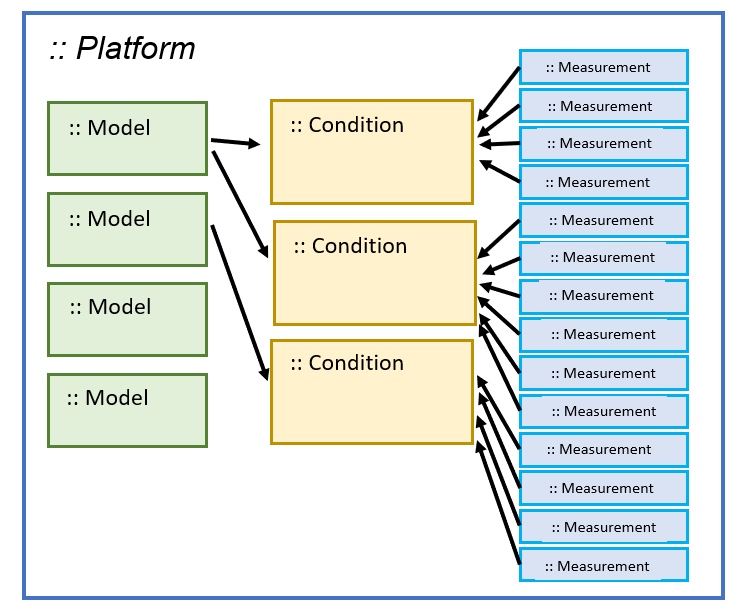
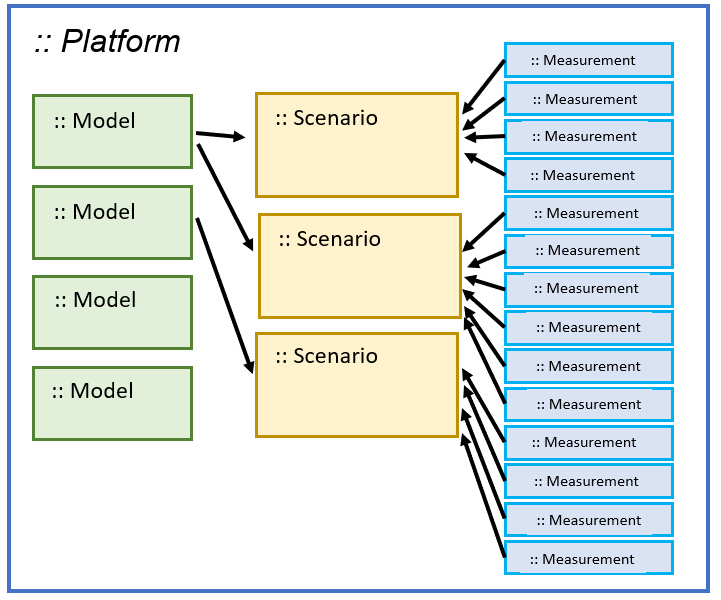
update @show

Changed region(s): [[0.0, 0.0, 1.0, 0.99]]

diff --git a/docs/src/basics/design.md b/docs/src/basics/design.md
@@ -7,18 +7,18 @@ The endpoint users are not experienced Julia users but rather researchers having
 We avoided complex user interfaces and limit the number of different methods for the base modeling workflow.
 
 The approach implies the "modeling platform" term that means everything helpful for modeling: models structure, variables, parameters, scenarios and experimental dataset. From the practical point of view "modeling platform" is the same as project files.
-The representation of modeling platform in the HetaSimulator package is object of the [`Platform`]{@ref} type.
+The representation of modeling platform in the HetaSimulator package is object of the [`Platform`](@ref) type.
 This object stores `Model`s, `Scenario`s and `Measurement`s.
 
-[`Model`]{@ref} type represents one concrete namespace imported from [Heta-compiler](https://hetalang.github.io/#/heta-compiler/). It stores information about ODE system, initialization of initial values, events as well as default values of constants. The HetaSimulator approach imply multi-model usage so simulations and optimizations can be done for several models simultaneously without specific preparations.
+[`Model`](@ref) type represents one concrete namespace imported from [Heta-compiler](https://hetalang.github.io/#/heta-compiler/). It stores information about ODE system, initialization of initial values, events as well as default values of constants. The HetaSimulator approach imply multi-model usage so simulations and optimizations can be done for several models simultaneously without specific preparations.
 
-[`Scenario`]{@ref} type stores additional setting for running ODE solution and tasks. For example the same model can be run with or without some events, or differ by some specific constant values like doses and others, or has some specific output variables (observables). Each `Scenario` is associated with a specific `Model`. Each model may be referenced by any number of scenarios.
+[`Scenario`](@ref) type stores additional setting for running ODE solution and tasks. For example the same model can be run with or without some events, or differ by some specific constant values like doses and others, or has some specific output variables (observables). Each `Scenario` is associated with a specific `Model`. Each model may be referenced by any number of scenarios.
 
 Additionally `Scenario` instance is a container for the `Measurement` objects which describe experimental datasets. They can be used for identification of model parameters or some specific tasks like identifiability analysis and visualization. 
 
 ![platform-scheme](platform-scheme.png)
 
-There is no need to create more than one `Platform` object because it can store any number of `Model`s and `Scenario`s. The advisable workflow is (1) to create one `Platform` using [`load_platform`]{@ref} method, (2) update it by `Scenario`s and `Measurement`s using formatted CSV tables and (3) apply different methods depending on your goals.
+There is no need to create more than one `Platform` object because it can store any number of `Model`s and `Scenario`s. The advisable workflow is (1) to create one `Platform` using [`load_platform`](@ref) method, (2) update it by `Scenario`s and `Measurement`s using formatted CSV tables and (3) apply different methods depending on your goals.
 
 There are base methods that can be applied for a platform object, for example `sim`, `mc` and `fit`.
 These methods can be applied for a particular `Scenario` or for the whole platform (all scenarios in platform).

diff --git a/TODO.md b/TODO.md
@@ -1,15 +1,11 @@
 ## bugs
 
 - проверка размерности при load_platform
-- 
+- DataFrame для MCResults при разных output
 
 ## features
 
-- метод `get_measurements_as_dataframe()` для `Platform`, `Conditions`, `SimResults`
-- метод `save_heta(fit_results)`
-- метод `load_parameters()` + новая структура параметров в `fit` + scale
-- переименовать `Condition` в `Scenario`
-- удалить поддерку методов для `Model`
+- удалить поддержку методов для `Model`
 
 - более информативные show для объектов
 - примеры в документации с использованием plotly и вариантов красивых графиков

diff --git a/docs/src/index.md b/docs/src/index.md
@@ -121,5 +121,3 @@ Copyright 2020-2021, InSysBio LLC
 
 - Ivan Borisov
 - Evgeny Metelkin
-
-**HetaSimulator** is inspired by user's experience in QSP projects and the software packages like [SBMLToolbox](http://sbml.org/Software/SBMLToolbox), [mrgsolve](https://mrgsolve.github.io/), [DBSolve](http://insysbio.com/en/software/db-solve-optimum), [dMod](https://github.com/dkaschek/dMod).

diff --git a/CHANGELOG.md b/CHANGELOG.md
@@ -3,7 +3,7 @@
 ## 0.4.1
 
 - Rename `Condition` => `Scenario`
-- minor fixes to rewrite savedvalues in SimResults
+- minor fixes to rewrite saved values in SimResults
 - plot layout changes
 - distribution type :lognormal
 - `read_parameters` method
